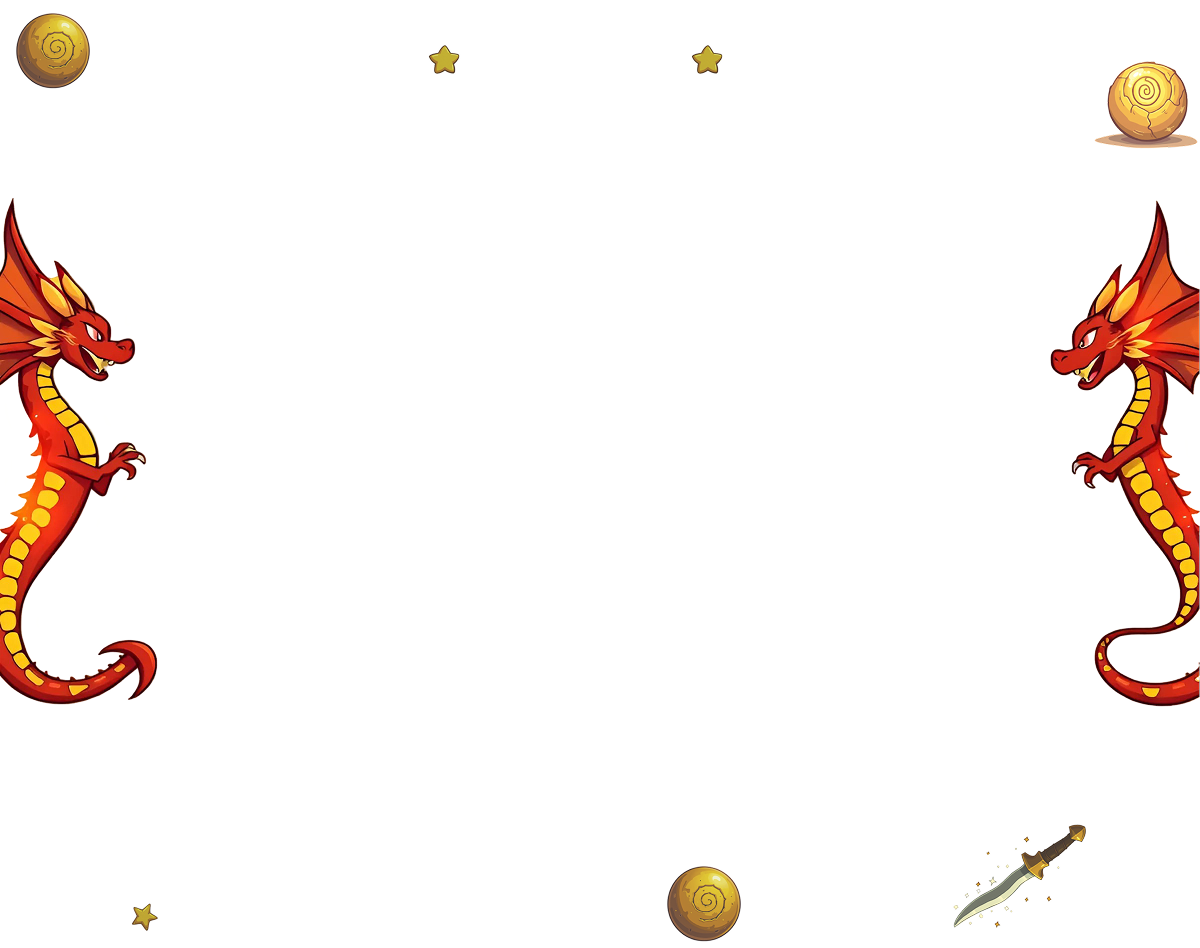
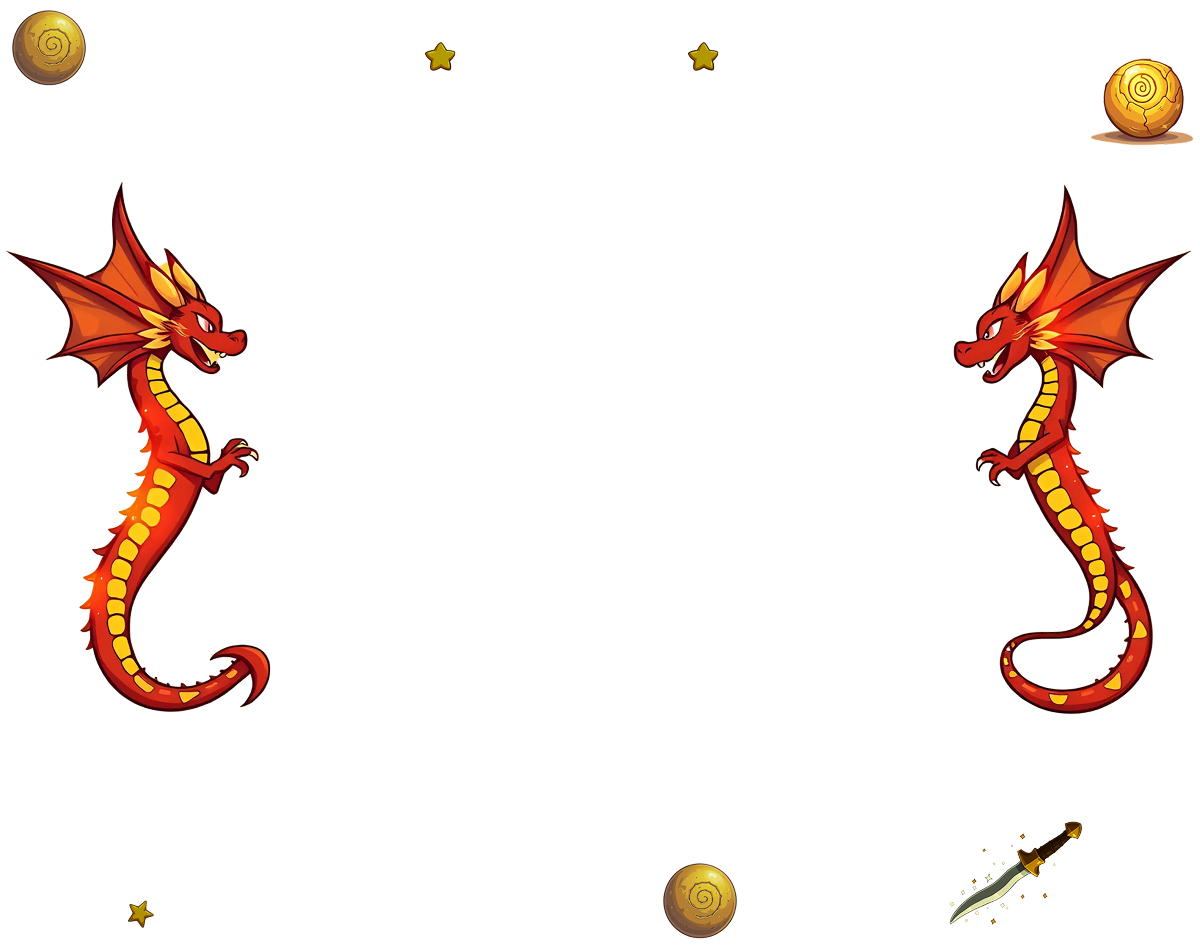
update scss and change bg reviews

diff --git a/src/partials/reviews.html b/src/partials/reviews.html
@@ -79,7 +79,7 @@
                 media="(min-width: 1200px)"
                 srcset="
                   ./img/img/reviews/plastic_yellow_star_desktop.png    1x,
-                  ./img/img/reviews/plastic_yellow_star_desktop@2x.png 2x
+                  ./img/img/reviews/plastic _yellow_star_desktop@2x.png 2x
                 "
                 type="image/png"
               />
@@ -165,8 +165,8 @@
               <source
                 media="(min-width: 1200px)"
                 srcset="
-                  ./img/img/reviews/plastic_yellow_star_desktop.png    1x,
-                  ./img/img/reviews/plastic_yellow_star_desktop@2x.png 2x
+                ./img/img/reviews/plastic_yellow_star_desktop.png    1x,
+                ./img/img/reviews/plastic _yellow_star_desktop@2x.png 2x
                 "
                 type="image/png"
               />
@@ -252,8 +252,8 @@
               <source
                 media="(min-width: 1200px)"
                 srcset="
-                  ./img/img/reviews/plastic_yellow_star_desktop.png    1x,
-                  ./img/img/reviews/plastic_yellow_star_desktop@2x.png 2x
+                ./img/img/reviews/plastic_yellow_star_desktop.png    1x,
+                ./img/img/reviews/plastic _yellow_star_desktop@2x.png 2x
                 "
                 type="image/png"
               />
@@ -338,8 +338,8 @@
               <source
                 media="(min-width: 1200px)"
                 srcset="
-                  ./img/img/reviews/plastic_yellow_star_desktop.png    1x,
-                  ./img/img/reviews/plastic_yellow_star_desktop@2x.png 2x
+                ./img/img/reviews/plastic_yellow_star_desktop.png    1x,
+                ./img/img/reviews/plastic _yellow_star_desktop@2x.png 2x
                 "
                 type="image/png"
               />
@@ -425,8 +425,8 @@
               <source
                 media="(min-width: 1200px)"
                 srcset="
-                  ./img/img/reviews/plastic_yellow_star_desktop.png    1x,
-                  ./img/img/reviews/plastic_yellow_star_desktop@2x.png 2x
+                ./img/img/reviews/plastic_yellow_star_desktop.png    1x,
+                ./img/img/reviews/plastic _yellow_star_desktop@2x.png 2x
                 "
                 type="image/png"
               />

diff --git a/src/scss/reviews.scss b/src/scss/reviews.scss
@@ -33,8 +33,7 @@
 }
 
 .reviews-container {
-  width: 100%;
-  min-width: 320px;
+  width: 320px;
   margin: 0 auto;
   padding: 24px 0;
 
@@ -52,13 +51,17 @@
     @media (min-resolution: 2dppx) {
       background-image: url('../img/img/reviews/Reviews_BG_desktop@2x.png');
     }
-  }
-  @include media(desktop) {
-    align-content: center;
-
+    // align-content: center;
+    display: flex;
+    flex-direction: column;
+    align-items: center;
+    // justify-content: center;
+    width: 100%;
     max-width: 1200px;
     padding: 80px 112px 183.77px 117px;
   }
+  // @include media(desktop) {
+  // }
 }
 
 .reviews-title {
@@ -86,12 +89,12 @@
     flex-direction: column-reverse;
     justify-items: center;
     align-items: center;
-    column-gap: 16px;
+    // column-gap: 16px;
     row-gap: 64px;
     grid-template-columns: 1fr 1fr 1fr;
     height: 581.23px;
-    // width: 100%;
-    max-width: 1200px;
+    width: 850px;
+    // max-width: 1200px;
   }
 }
 
@@ -149,6 +152,7 @@
     height: 256px !important;
     gap: 13.68px;
     padding: 68.38px 39.32px;
+    backdrop-filter: blur(19px);
 
     box-shadow: -4px 1px 0px 1px rgba(92, 54, 45, 0.5),
       -3px 1px 2px 0px rgba(166, 82, 30, 0.4);

diff --git a/src/scss/benefits.scss b/src/scss/benefits.scss
@@ -23,6 +23,12 @@
 .benefits-bg {
 }
 .benefits-container {
+  position: relative;
+  width: 320px;
+  margin: 0 auto;
+  padding: 24px;
+
+  color: $_benefits_brown;
   background-image: url('../img/img/benefits/Benefits_BG_mobile.png');
   background-repeat: no-repeat;
   background-size: cover;
@@ -39,17 +45,10 @@
       background-image: url('../img/img/benefits/benefits_BG_desktop@2x.png');
     }
   }
-  // position: relative;
-  width: 100%;
-  min-width: 320px;
-  margin: 0 auto;
-  padding: 24px;
-
-  color: $_benefits_brown;
 
   @include media(desktop) {
     height: 1132px;
-
+    width: 100%;
     max-width: 1200px;
     padding: 80px 32px;
   }

diff --git a/src/scss/key-features.scss b/src/scss/key-features.scss
@@ -16,8 +16,7 @@
 }
 
 .key-features-container {
-  width: 100%;
-  min-width: 320px;
+  width: 320px;
   margin: 0 auto;
   padding: 24.2px;
 
@@ -33,6 +32,7 @@
     }
   }
   @include media(desktop) {
+    width: 100%;
     height: 1122px;
     max-width: 1200px;
     padding: 80px 178px 80px 420px;
@@ -62,9 +62,9 @@
   display: flex;
   flex-direction: column;
   gap: 8px;
-  margin: 0 auto;
   padding-left: 0;
-  width: 100%;
+  // width: 272px;
+  // margin: 0 auto;
   counter-reset: list-counter;
   list-style: none;
 

diff --git a/src/scss/main-characters-description.scss b/src/scss/main-characters-description.scss
@@ -17,8 +17,7 @@
 }
 
 .main-characters-container {
-  width: 100%;
-  min-width: 320px;
+  width: 320px;
   margin: 0 auto;
   padding: 24px 24px 0 24px;
   background-image: url('../img/img/main_characters_description/Main_Characters_Description_BG_mobile.png');
@@ -38,6 +37,7 @@
     }
   }
   @include media(desktop) {
+    width: 100%;
     max-width: 1200px;
 
     padding: 80px 19px;

diff --git a/src/scss/gallery.scss b/src/scss/gallery.scss
@@ -19,8 +19,7 @@
 }
 
 .gallery-container {
-  width: 100%;
-  min-width: 320px;
+  width: 320px;
   margin: 0 auto;
   padding: 24px;
   background-image: none;
@@ -36,6 +35,7 @@
   }
   @include media(desktop) {
     padding: 80px 61px;
+    width: 100%;
     max-width: 1200px;
   }
 }

diff --git a/src/partials/hero.html b/src/partials/hero.html
@@ -13,6 +13,7 @@
       <a
         class="hero-btn"
         href="https://play.google.com/store/apps/details?id=games.rivvy.eternalherorpg&hl=en&gl=us"
+        target="_blank"
         ><picture>
           <source
             media="(max-width: 1200px)"

diff --git a/src/scss/game-description.scss b/src/scss/game-description.scss
@@ -18,8 +18,7 @@
 }
 
 .game-description-container {
-  width: 100%;
-  min-width: 320px;
+  width: 320px;
   margin: 0 auto;
   padding: 24.2px;
 
